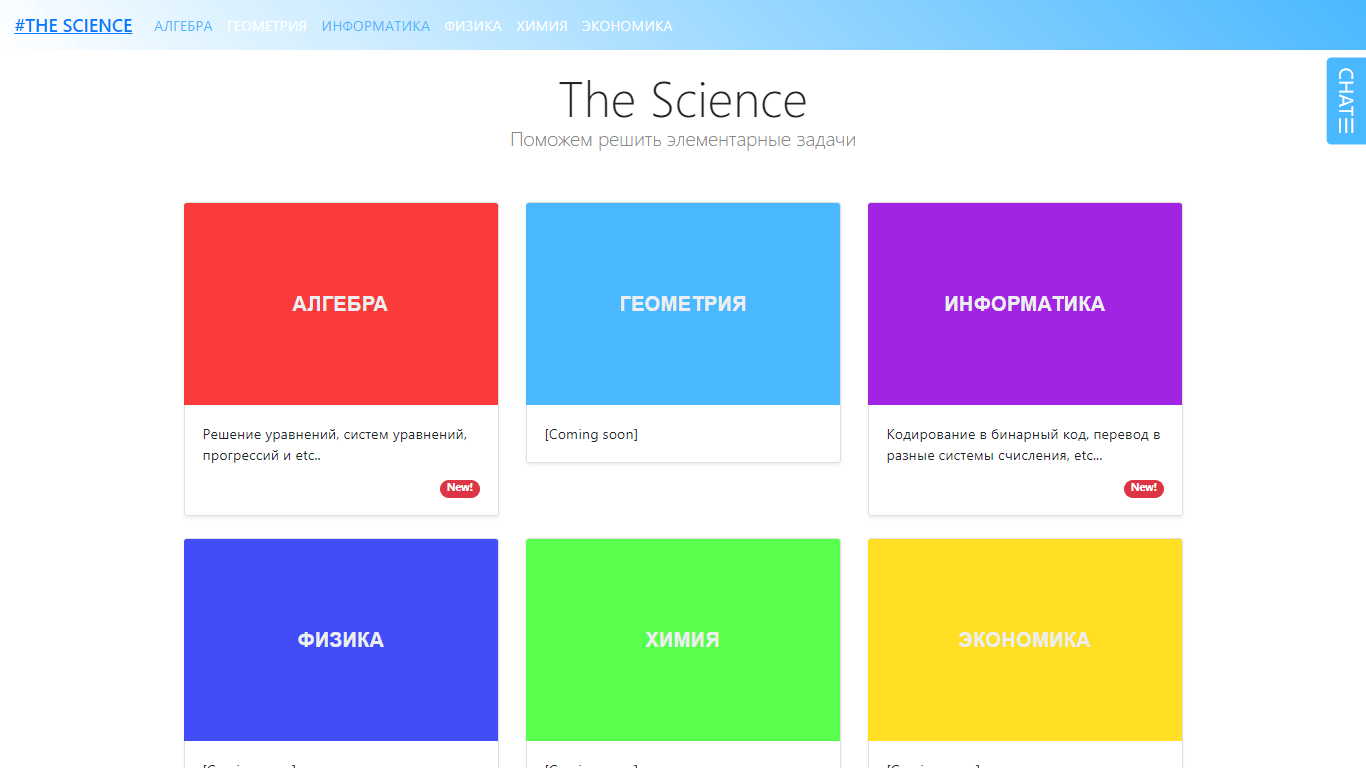
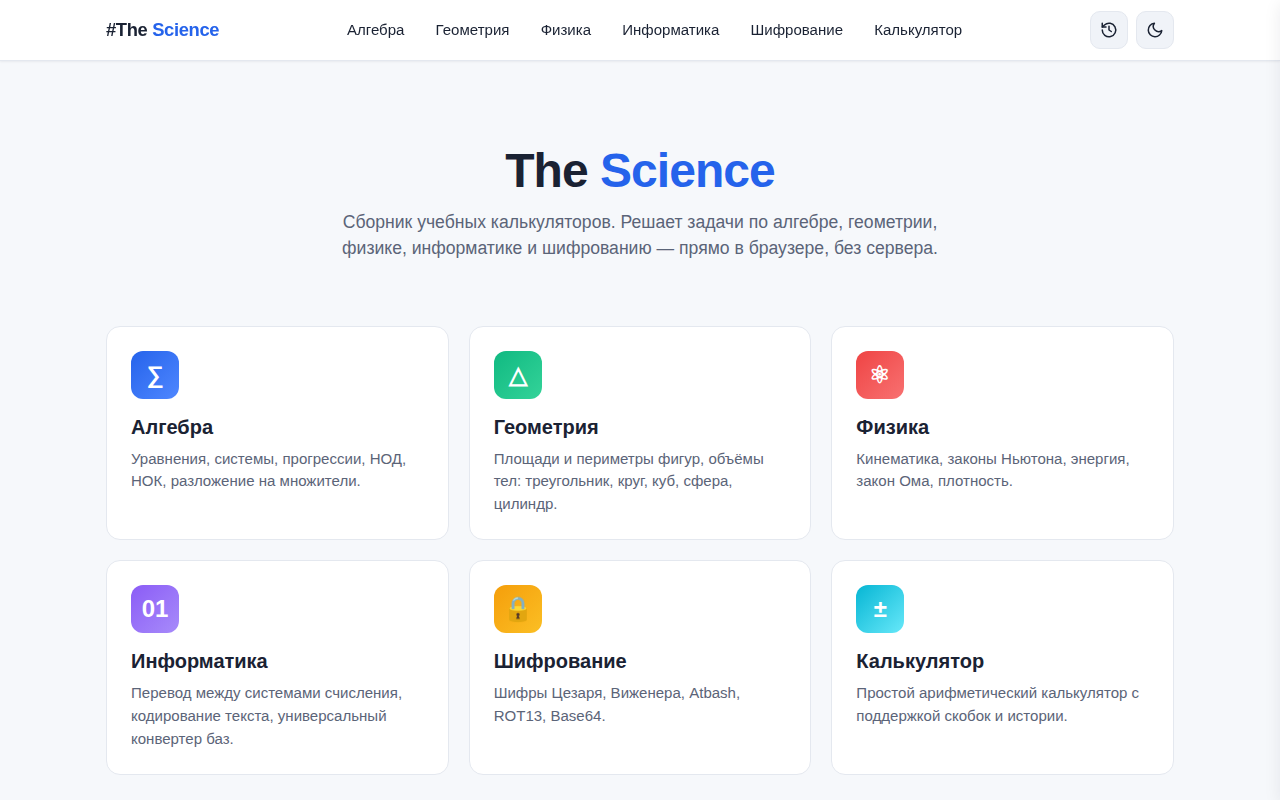
Update README and replace screenshot with current design
- Rewrote README: removed outdated "coming soon" notes, added quick-start
  instructions, GitHub Pages deploy tip, full feature list, and project tree
- Replaced old PHP-era screenshot with current redesigned interface
  (captured via Playwright at 1280×800)

diff --git a/README.md b/README.md
@@ -1,43 +1,64 @@
 # The Science
 
-Учебный сборник интерактивных калькуляторов. Работает **без сервера** — просто открой `index.html` в браузере.
+Сборник интерактивных учебных калькуляторов. Работает **без сервера** — просто открой `index.html` в браузере или разверни на GitHub Pages.
+
+![Скриншот главной страницы](img/screen.png)
 
 ## Разделы
 
 | Раздел | Что умеет |
 |---|---|
-| **Алгебра** | Линейные и квадратные уравнения, системы 2×2 и 3×3, арифметическая и геометрическая прогрессии, НОД, НОК, разложение трёхчлена |
-| **Геометрия** | Прямоугольник, треугольник (Герон), круг, трапеция, параллелограмм, куб, параллелепипед, сфера, цилиндр, конус |
-| **Физика** | Равномерное и равноускоренное движение, свободное падение, закон Ньютона, кинетическая/потенциальная энергия, закон Ома, плотность |
-| **Информатика** | DEC↔BIN↔HEX, текст↔двоичный код, универсальный конвертер (основания 2–36) |
-| **Шифрование** | Цезарь, Виженер, Atbash, ROT13, Base64 |
-| **Калькулятор** | Арифметика со скобками и историей |
+| **Алгебра** | Линейные и квадратные уравнения, системы 2×2 и 3×3 (правило Крамера), арифметическая и геометрическая прогрессии (n-й член, сумма, произведение), НОД, НОК, разложение трёхчлена на множители |
+| **Геометрия** | Прямоугольник, треугольник (формула Герона), круг, трапеция, параллелограмм; куб, параллелепипед, сфера, цилиндр, конус — площади и объёмы |
+| **Физика** | Равномерное и равноускоренное движение, свободное падение, второй закон Ньютона, кинетическая и потенциальная энергия, закон Ома, плотность вещества |
+| **Информатика** | DEC ↔ BIN ↔ HEX, текст ↔ двоичный код, универсальный конвертер систем счисления (основания 2–36) |
+| **Шифрование** | Шифр Цезаря (рус/англ), шифр Виженера, Atbash, ROT13, Base64 |
+| **Калькулятор** | Арифметика со скобками, клавиатурный ввод, история последних 10 вычислений |
 
 ## Возможности
 
-- **Решение по шагам** — каждый калькулятор показывает промежуточные вычисления
-- **История вычислений** — сохраняется в `localStorage`, доступна через кнопку в шапке
+- **Пошаговое решение** — каждый калькулятор показывает промежуточные вычисления
+- **История** — сохраняется в `localStorage`, открывается кнопкой в шапке
 - **Тёмная тема** — переключается кнопкой, запоминается между сессиями
 - **Офлайн** — никаких запросов к серверу, весь код работает в браузере
+- **Мобильная адаптация** — корректно отображается на экранах от 360 px
 
-## Структура
+## Быстрый старт
+
+```bash
+# Склонируй репозиторий
+git clone https://github.com/reix88/science.git
+cd science
+
+# Открой в браузере
+open index.html          # macOS
+xdg-open index.html      # Linux
+start index.html         # Windows
+```
+
+Или разверни бесплатно через **GitHub Pages**: `Settings → Pages → Branch: main → /(root)`.
+
+## Структура проекта
 
 ```
-index.html          — главная страница
-math/               — алгебра (13 страниц)
-geometry/           — геометрия (11 страниц)
-physics/            — физика (9 страниц)
-computer_science/   — информатика (7 страниц)
-encryption/         — шифрование (6 страниц)
-calculator/         — калькулятор
+index.html              — главная страница
+math/                   — алгебра (13 страниц)
+geometry/               — геометрия (11 страниц)
+physics/                — физика (9 страниц)
+computer_science/       — информатика (7 страниц)
+encryption/             — шифрование (6 страниц)
+calculator/             — калькулятор
 assets/
-  css/main.css              — дизайн-система с поддержкой тёмной темы
-  js/core.js                — ядро: тема, история, навигация, утилиты
-  js/solvers-math.js        — математические решатели
-  js/solvers-geometry.js    — геометрические решатели
-  js/solvers-physics.js     — физические решатели
-  js/solvers-cs.js          — конвертеры систем счисления
-  js/solvers-encryption.js  — шифровальщики
+  css/main.css          — дизайн-система (светлая/тёмная тема, адаптив)
+  js/core.js            — ядро: тема, история, навигация, утилиты
+  js/solvers-math.js    — математические решатели
+  js/solvers-geometry.js
+  js/solvers-physics.js
+  js/solvers-cs.js      — конвертеры систем счисления
+  js/solvers-encryption.js
+img/                    — скриншоты
 ```
 
-![скриншот](img/screen.png)
+## Лицензия
+
+[MIT](LICENSE)